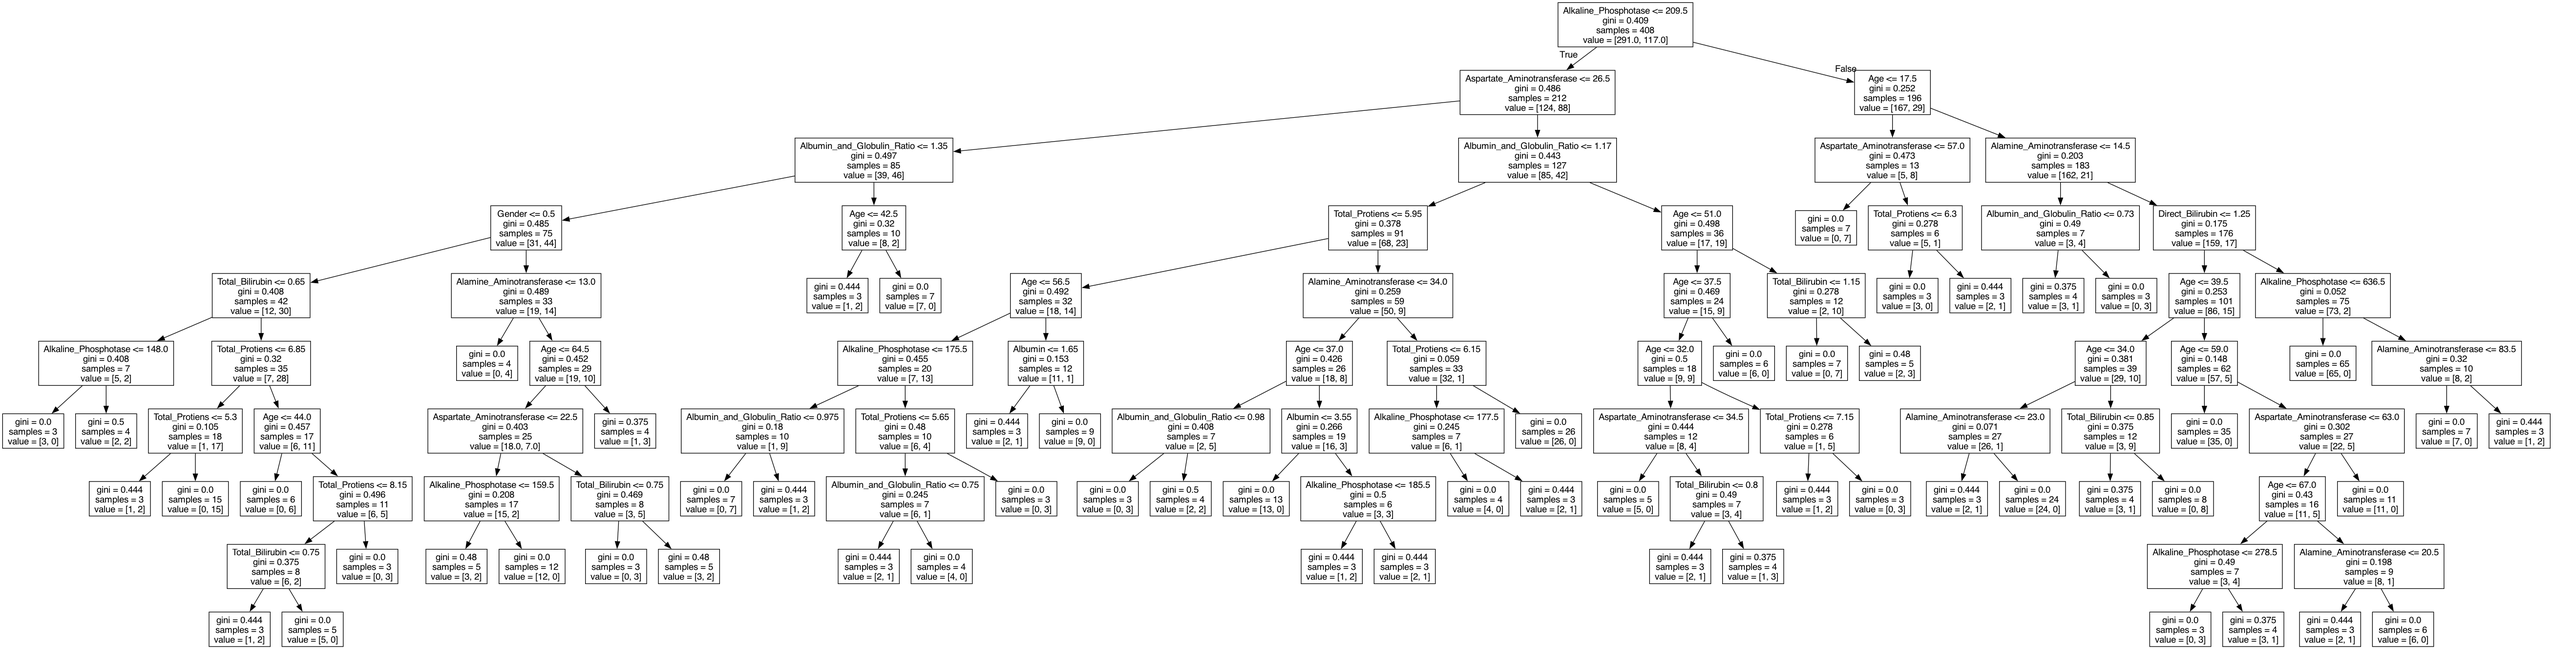
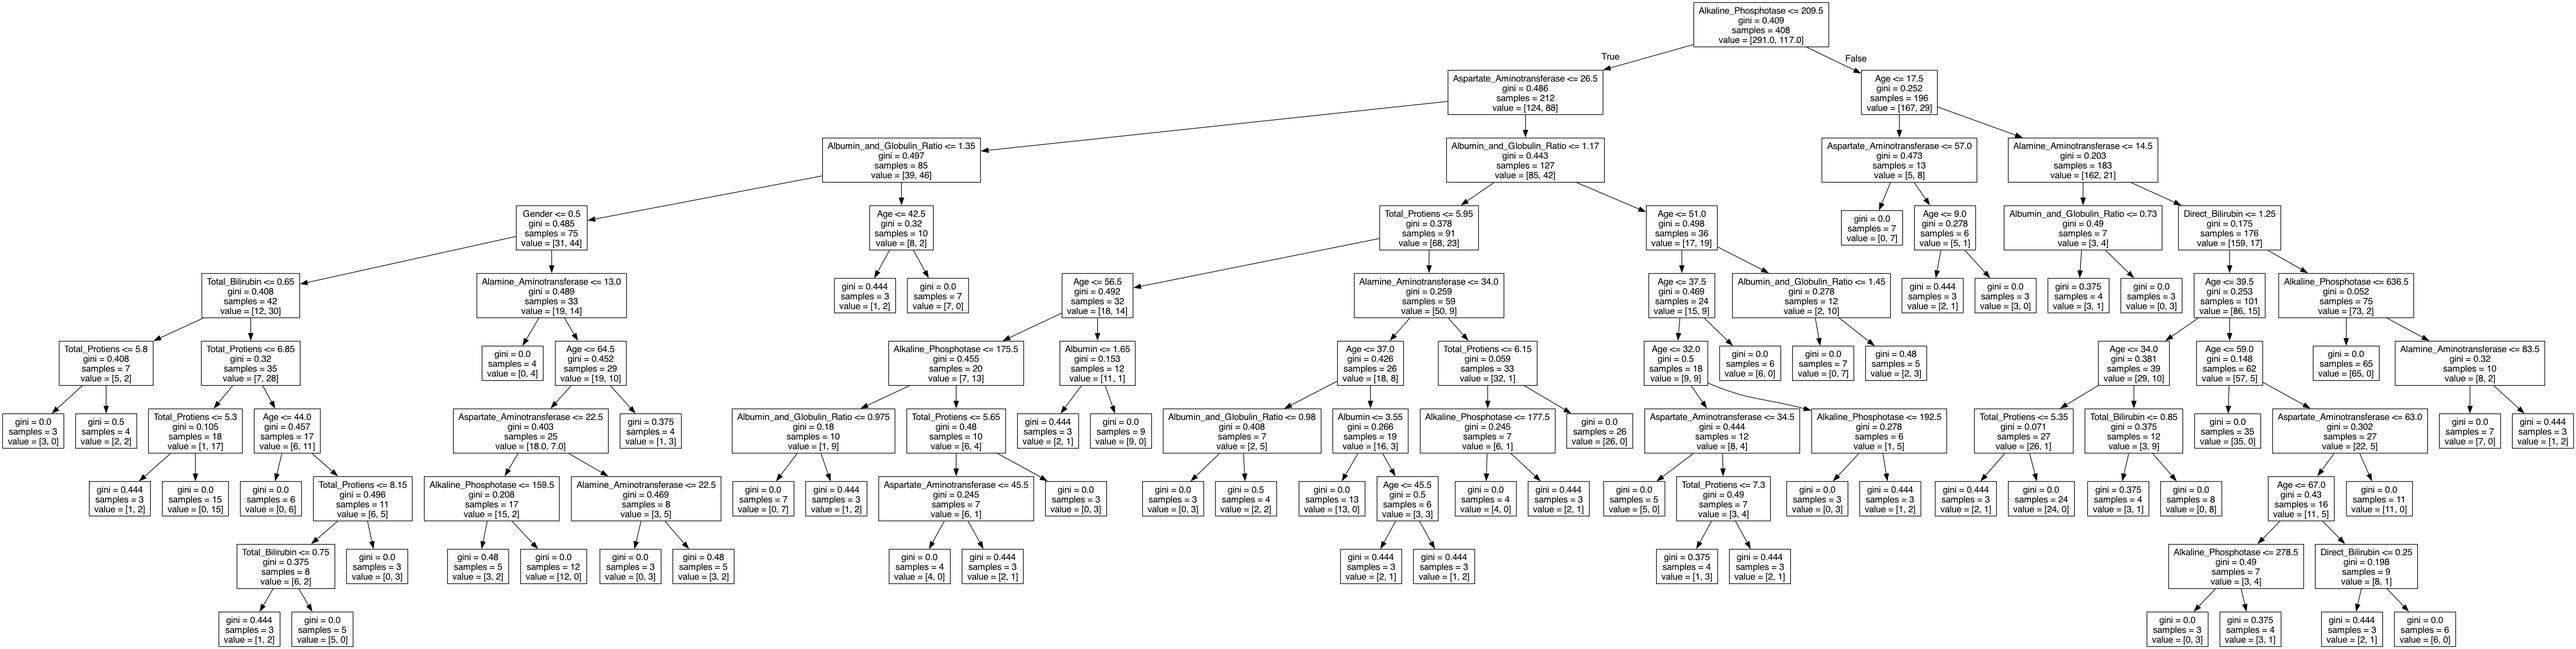
update A1

diff --git a/A1/A1_code.py b/A1/A1_code.py
@@ -4,7 +4,7 @@
 Author       : Chris Xiao yl.xiao@mail.utoronto.ca
 Date         : 2025-01-17 02:43:16
 LastEditors  : Chris Xiao yl.xiao@mail.utoronto.ca
-LastEditTime : 2025-01-17 04:42:32
+LastEditTime : 2025-01-22 00:27:30
 FilePath     : /LMP1210_Winter_2025/A1/A1_code.py
 Description  : python script for problem 4,5,6 in A1
 I Love IU
@@ -94,7 +94,10 @@ def train_decision_tree(
     min_samples_leaf: int = 1,
 ) -> None:
     classifier = DecisionTreeClassifier(
-        criterion="gini", splitter="best", min_samples_leaf=min_samples_leaf
+        criterion="gini",
+        splitter="best",
+        min_samples_leaf=min_samples_leaf,
+        random_state=1,
     )
     classifier.fit(X_train, y_train)
     acc_train = classifier.score(X_train, y_train)
